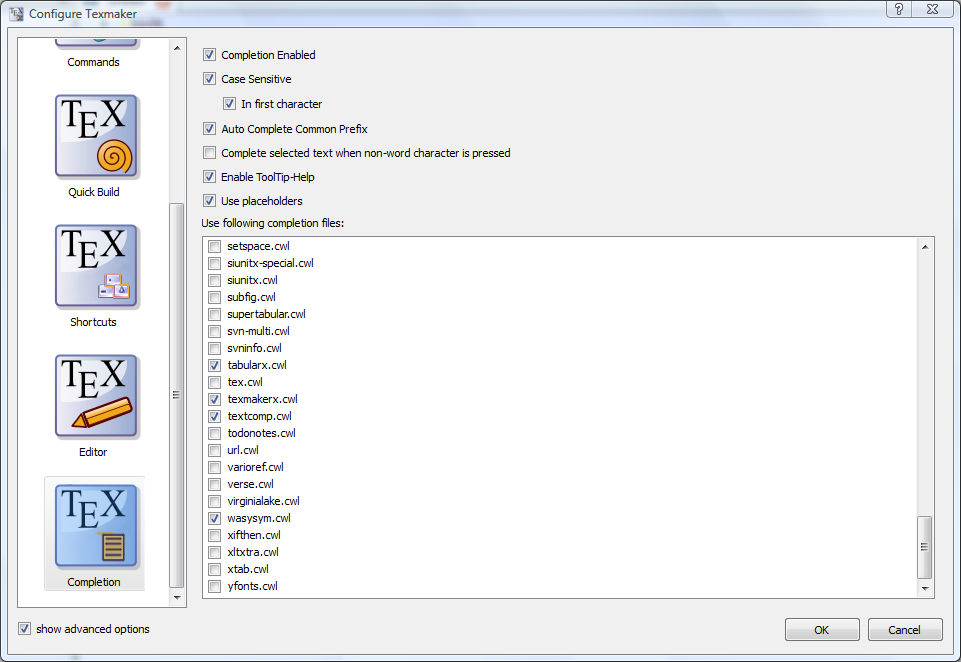
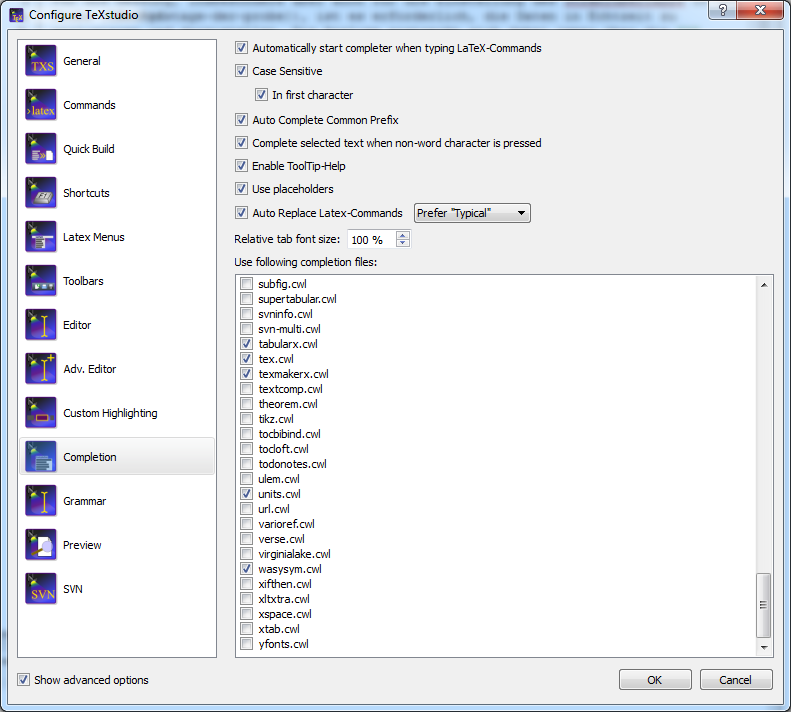
some documentation updates: - up-to-date config dialog pictures - updated spell checker description - updated graphics wizard description - some small changes
git-svn-id: svn://svn.code.sf.net/p/texstudio/code/trunk@2540 92cce386-e96d-4106-809f-596c673a3fd8

Changed region(s): [[0.0, 0.0, 1.0, 1.0]]

diff --git a/utilities/usermanual_en.html b/utilities/usermanual_en.html
@@ -228,17 +228,16 @@ changed functionality:</P>
 <li><p>several bug fix (especially crashs in the pdf viewer/syntax check/structure view) and minor improvements</p></li>
 </ul>
 <h1><a name="SECTION0">1. Configuring TeXstudio</a></h1>
-Before using TeXstudio, you should configure the editor and latex related commands via the "Configure TeXstudio" command in the "Options" menu ("Preferences" under macosx).
+Before using TeXstudio, you should configure the editor and latex related commands via the "Configure TeXstudio" command in the "Options" menu ("Preferences" under Mac OS X). Note that there are two levels of detail. More advanced or less often used options are only visible if you toggle "Show advancde options" in the lower left corner.
 <h2><a name="SECTION01">1.1 Configuring the editor</a></h2>
 <p>
-You can should set the default encoding for new files ("Configure TeXstudio" -> "Editor" -> "Editor Font Encoding") if you don't want utf8 as encoding. Don't forget to set the same encoding in the preamble of your documents. (e.g. \usepackage[utf8]{inputenc}, if you use utf-8).<br>
+You may change the default encoding for new files ("Configure TeXstudio" -> "Editor" -> "Editor Font Encoding") if you don't want utf8 as encoding. Don't forget to set the same encoding in the preamble of your documents. (e.g. \usepackage[utf8]{inputenc}, if you use utf-8).<br>
 TeXstudio can auto detect utf-8 and latin1 encoded files, but if you use a different encoding in your existing documents you have to specify it in the configuration dialog before opening them. (and then you also have to disable the auto detection)
 </p>
 <p>
 <ul>
-<li>"Show Line State Change" sets yellow markers left to the text to show which lines have been changed and are still unsaved. That marker turns grreen if they are saved.
-<li>"Show modify time" prints the time since the last key stroke in the status panel.
-<li>The selection box "Keep indentation" let you select, wether indented lines are followed by lines of the same indentation after pressing Enter or letting TeXstudio do automatic indentation.
+<li>"Folding" toggles the editors code-folding capability (hide sections of the text).
+<li>The selection box "Indentation mode" lets you select, wether indented lines are followed by lines of the same indentation after pressing Enter or letting TeXstudio do automatic indentation.
 </ul>
 </p>
 <p><IMG src="configure_editor.png" border="1"></p>
@@ -246,9 +245,10 @@ TeXstudio can auto detect utf-8 and latin1 encoded files, but if you use a diffe
 <p>TeXstudio can't compile yours documents if the paths to the LaTeX related commands are wrong.<br>
 The default settings should work with the recent and standard LaTeX distributions, but you could have to modify them ("Configure TeXstudio" -> "Commands"). To change a command, just click on the button at the end of the corresponding line and select the command in the file browser : TeXstudio will adapt automatically the syntax of the command.<br>
 The <strong>%</strong> character represents the name of the file without the extension and the <strong>@</strong> character will be replaced by the current line number. If you need more options (e.g. absolute paths) use ? and  look at the instruction on the bottom of the configuration dialog. <br>
-Section <a href="#SECTION37">Forward/Inverse search</a> gives some example commands for common viewers.
+Section <a href="#SECTION37">Forward/Inverse search</a> gives some example commands for common viewers.<br>
+You can always restore the original settings using the revert button to the right.
 </p>
-<p><IMG src="doc14.png" border="1"></p>
+<p><IMG src="configure_commands.png" border="1"></p>
 <h2><a name="SECTION030">1.3 Configuring some general issues</a></h2>
 This panel allows the setting of some general aspects.
 <ul>
@@ -262,12 +262,13 @@ This panel allows the setting of some general aspects.
 <p>
 TeXstudio checks the spelling while you type. If the typed text is within a LaTeX-command, TeXstudio takes information from the command-completion-list to determine whether the text is natural language which needs to be checked or just command options which are left alone. Only known LaTeX-commands are considered to be checked in its options!
 Therefore make sure that all used packages are activated in the option/completion menu, see the corresponding <a href="#SECTION040">section</a> <br>
-The spell checker uses the OpenOffice.org dictionaries. Only GPL French and British dictionaries are distributed with TeXstudio.<br>
-Users can download others dictionaries here : <A href="http://wiki.services.openoffice.org/wiki/Dictionaries" target="_blank">http://wiki.services.openoffice.org/wiki/Dictionaries</A><br>
-To configure the spell checker : "Configure TeXstudio" -> "Editor" -> "Spelling dictionary" -> click on the button at the end of the line to select the dictionary with the file browser. If you specify a non existing file the edit gets red.<br>
+The spell checker uses the OpenOffice.org dictionaries. By default GPL French, British and German dictionaries are distributed with TeXstudio. Users can download others dictionaries here : <A href="http://wiki.services.openoffice.org/wiki/Dictionaries" target="_blank">http://wiki.services.openoffice.org/wiki/Dictionaries</A>. All dictionaries are a stored in one directory.<br>
+To make life easy TeXstudio lets you choose a preferred language for the spell checker. However if you frequently work with files in different languages you may want to override the default behavior. This can be done in two ways. First you can specify the language of the file via the language menu in the status line. This setting will be lost as soon as the file is closed. To permanently save the language of the file TeXstudio supports a special "magic comment" <code>% !TeX spellcheck = de_DE</code>. If this comment is present in a file, its language is automatically set when the file is loaded.
+<p><IMG src="spellcheck_menu.png" border="1"></p>
+
 Warning : spell checking with Ctrl+Shift+F7 starts at the cursor position and not at the beginning of the document.<br><br>
 If the interactive spell checker is enabled (default), any wrong spelled word is underlined with a red wave. Click on it with the right mouse to open an menu with a list of possible corrections. There you can also move it to the ignore list. If your dictionary is very large (> 5MB), opening the context menu and showing possible suggestions can take some seconds. If you don't need the suggestion, you can press shift while right clicking and don't have to wait.<br><br>
-The ignore list is normally saved in the same directory as the dictionary with the extension .ign. If this isn't possible (e.g. missing access) the list is stored in the user configuration directory.
+Since the internal structure of the dictionaries is complex (e.g. contains rules how to generate a word with in different inflections) it is not possible to simply add words to the dictionary. Instead if a word is missing in the dictionary, you can add it to an ignore list, so that the spell checker won't complain about it. The ignore list is normally saved in the same directory as the dictionary with the extension .ign. If this isn't possible (e.g. missing access) the list is stored in the user configuration directory.
 </p>
 <h2><a name="SECTION04">1.3.2 Configuring the thesaurus</a></h2>
 <p>
@@ -305,12 +306,12 @@ A shortcut can be selected from the drop down list or put in as text directly.
 If a shortcut should be set to default value or removed completely, the items "&lt;default&gt;" or "&lt;none&gt;" at the top of the list can be selected.
 </p>
 <p><IMG src="configure_shortcuts.png" border="1"></p>
-<h2><a name="SECTION06">1.6 Configuring the Latex/Math-Menu</a></h2>
+<h2><a name="SECTION06">1.6 Configuring the Latex/Math-Menu (Advanced option)</a></h2>
 <p>The Math/Latex-Menu can be adapted to user likings.
 For this menu items can be renamed and a new Latex-Code can be placed. The apropriate item can be be directly edited by doubleclicking on them.
 </p>
 <p><IMG src="configure_customizeMenu.png" border="1"></p>
-<h2><a name="SECTION07">1.7 Configuring the Custom Toolbar</a></h2>
+<h2><a name="SECTION07">1.7 Configuring the Custom Toolbar (Advanced option)</a></h2>
 <p>One Custom Toolbar is present in TMX. This toolbar can be filled with actions from the Latex-, Math- and User-Menu.
 Since many of those item don't have icons, user icons can be loaded as well. This is achieved by applying "load other icon" from the context menu on a item in the custom toolbar list in the configure dialog.
 </p>
@@ -403,7 +404,10 @@ Following commands are offered:
 <p>To insert a picture in your document, just use the "\includegraphics" command in the "LaTeX" menu. Then, click on the "browser" button in the dialog to select the graphic file.<br>Note : you can insert a "figure" LaTeX environment ("LaTeX - Environments" menu) before inserting the picture.</p>
 <p><IMG src="doc9.png" border="1"></p>
 <h2><a name="SECTION110a">2.10.1 Inserting a picture using a "wizard"</a></h2>
-<p>TeXstudio offers a wizard for picture insertion in your document. Apart from selecting a file, you can also have TeXstudio include an appropriate figure-environment with label and caption correctly set.</p>
+<p>Properly inserting figures is a challenge for LaTeX beginners and still quite a bit of text to type for the expert. Therefore TeXstudio offers a wizard for handling graphics insertion code in your document. "Graphics options" defines the optional parameter of <code>\insertgraphics[options]{file}</code>. While the most used width/height attributes can be easily set, alternatively you have full control with the user defined setting.<br>
+Place the graphic inside a <code>figure</code> environment if it does not have to be at an exact position in the text. Then LaTeX will determine an optimal position on the page.<br>
+By pressing the "Save as default" button the current settings (except file, caption and label) are stored and will hence be used as default when you open the wizard.<br>
+The wizard also comes into play when you drag &amp; drop an image file to your document or use copy in explorer and paste in TeXstudio. Together with the adjustable default parameters this makes insertion of new pictures very fast. Furthermore, if you start the wizard while the cursor is on picture code, the wizard is used to manipulate the existing picture settings.</p>
 <p><IMG src="wizard_figure.png" border="1"></p>
 <h2><a name="SECTION111">2.11 Cross References and notes</a></h2>
 <p>This toolbox in the toolbar allows you to insert quickly the label, cite, ref, footnote... code.<br>Note : the labels used in your documents are displayed in the "Structure View".</p>
